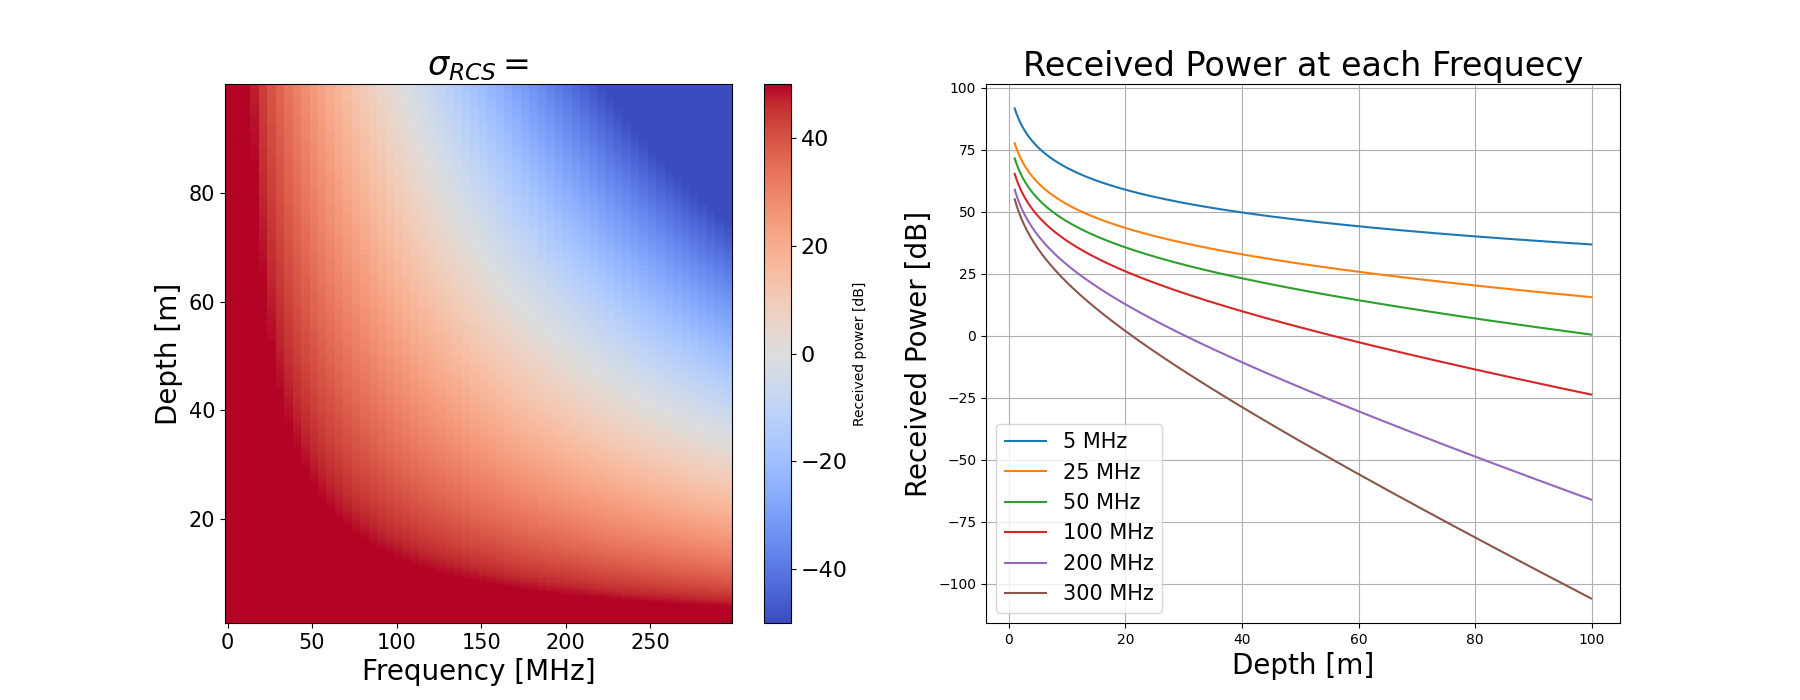
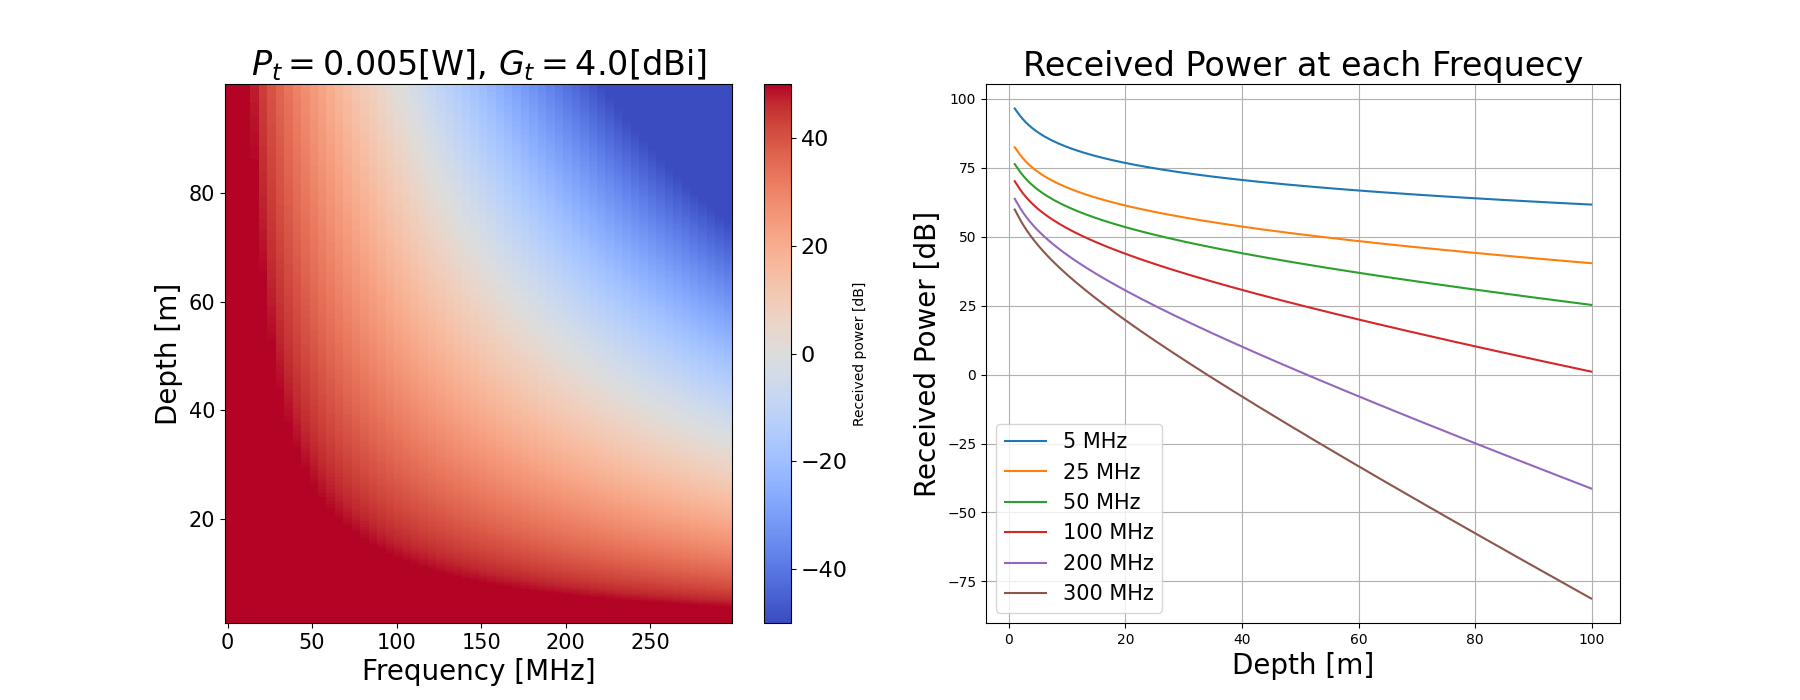
RCSのプロットを作成

diff --git a/recieved_power_dB.py b/recieved_power_dB.py
@@ -1,5 +1,6 @@
 import json
 import os
+from ast import Gt
 
 import matplotlib.pyplot as plt
 import numpy as np
@@ -23,7 +24,7 @@ epsilon_r = params['epsilon_r']  # 地面の比誘電率
 epsilon_0 = params['epsilon_0']  # 真空雨の誘電率　
 loss_tangent = params['loss_tangent']  # 損失角（tan）
 
-gain = params['antenna_gain']
+gain = 10 ** (params['antenna_gain']/10) # アンテナゲイン[dBi]
 Pt = params['transmit_power'] # 放射パワー[W]
 noise_level = params['noise_level'] # ノイズレベル[W]
 
@@ -56,7 +57,7 @@ def calc_Pr():
 
     # レーダー断面積を深さに応じて変化させる
     sigma1 = (R_mesh * 3/2) ** 2
-    sigma2 = (depth * 3/2 ** 2)
+    sigma2 = (depth * 3/2) ** 2
 
 
     # ノイズレベルの算出[dB]
@@ -80,13 +81,21 @@ def calc_Pr():
         
         return Pr_freq_detectability
     
-
-    Pr_1 = calc_Pr_certain_freq(5.0)
-    Pr_2 = calc_Pr_certain_freq(25.0)
-    Pr_3 = calc_Pr_certain_freq(50.0)
-    Pr_4 = calc_Pr_certain_freq(100.0)
-    Pr_5 = calc_Pr_certain_freq(200.0)
-    Pr_6 = calc_Pr_certain_freq(300.0)
+    if params_file == 'rover' :
+        Pr_1 = calc_Pr_certain_freq(5.0)
+        Pr_2 = calc_Pr_certain_freq(25.0)
+        Pr_3 = calc_Pr_certain_freq(50.0)
+        Pr_4 = calc_Pr_certain_freq(100.0)
+        Pr_5 = calc_Pr_certain_freq(200.0)
+        Pr_6 = calc_Pr_certain_freq(300.0)
+    
+    else:
+        Pr_1 = calc_Pr_certain_freq(5.0)
+        Pr_2 = calc_Pr_certain_freq(25.0)
+        Pr_3 = calc_Pr_certain_freq(50.0)
+        Pr_4 = calc_Pr_certain_freq(75.0)
+        Pr_5 = calc_Pr_certain_freq(200.0)
+        Pr_6 = calc_Pr_certain_freq(150.0)
 
 
 
@@ -118,6 +127,19 @@ def calc_Pr():
         for key, value in params.items():
             f.write(str(key) + ": " + str(value) + "\n")
     
+
+    # レーダー断面積のプロット
+    plt.figure(figsize=(10, 7))
+    plt.plot(depth, sigma2)
+    plt.xlabel('Depth [m]', size = 20)
+    plt.ylabel('Radar Cross Section [m^2]', size = 20)
+    plt.tick_params(axis='both', labelsize=15)
+
+    plt.savefig('output_recieved_power/radar_cross_section.png')
+    #plt.show()
+    
+
+
     # カラーマップをプロット
     plt.figure(figsize=(18, 7))
 
@@ -125,7 +147,10 @@ def calc_Pr():
     plt.subplot(1, 2, 1)
     plt.pcolormesh(f_mesh, R_mesh, Pr_detectability, cmap='coolwarm', shading='auto', norm=Normalize(vmin= -50, vmax=50))
 
-    plt.title(r"$\sigma _{RCS} = $", size = 24)
+    if params_file == 'rover':
+        plt.title(r"$P_t = $" + str(Pt) +'[W], '+  r'$G_t =$' + str(params['antenna_gain']) + '[dBi]', size = 24)
+    else:
+        plt.title(r"$h = $" + str(altitude) +'[km], '+  r'$Noise Level =$' + str(noise_level) + '[W]', size = 24)
     plt.xlabel('Frequency [MHz]', size = 20)
     plt.ylabel('Depth [m]', size = 20)
     cbar = plt.colorbar(label='Received power [dB]')
